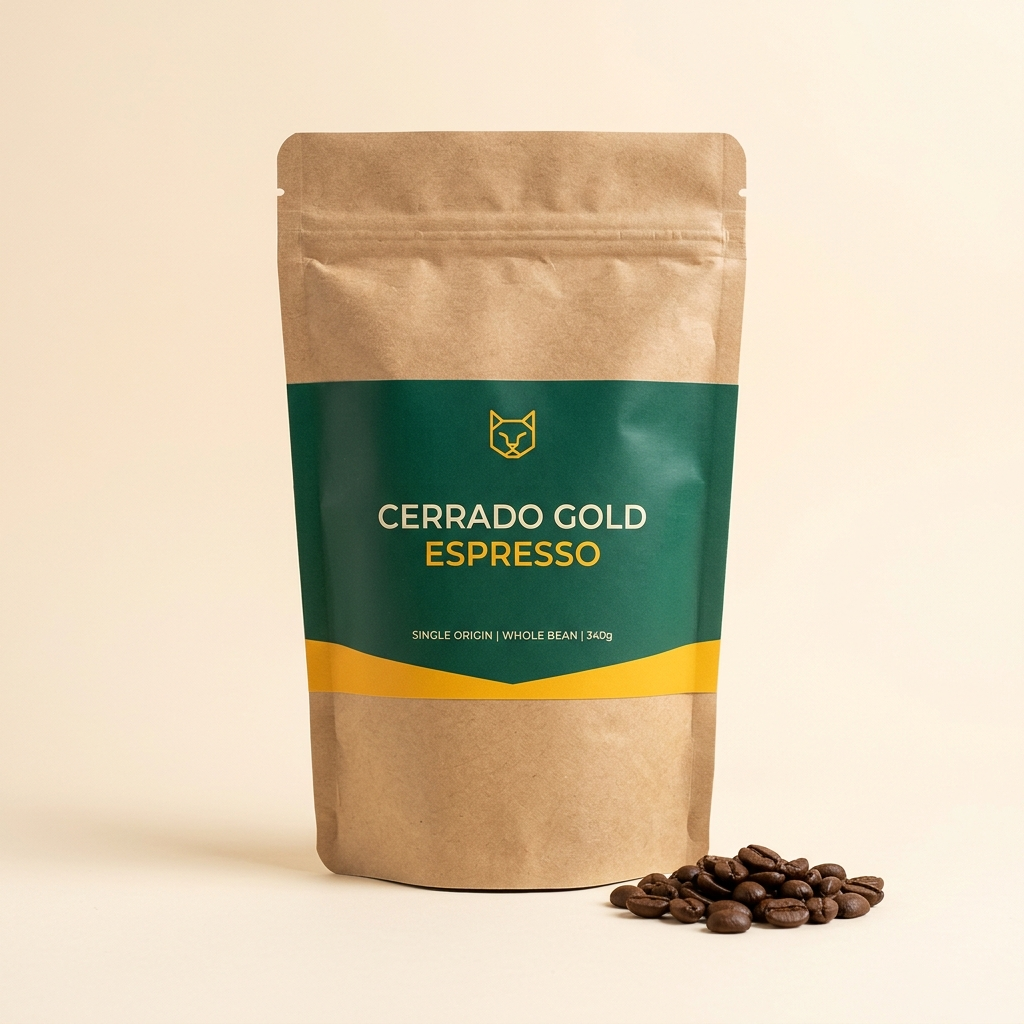
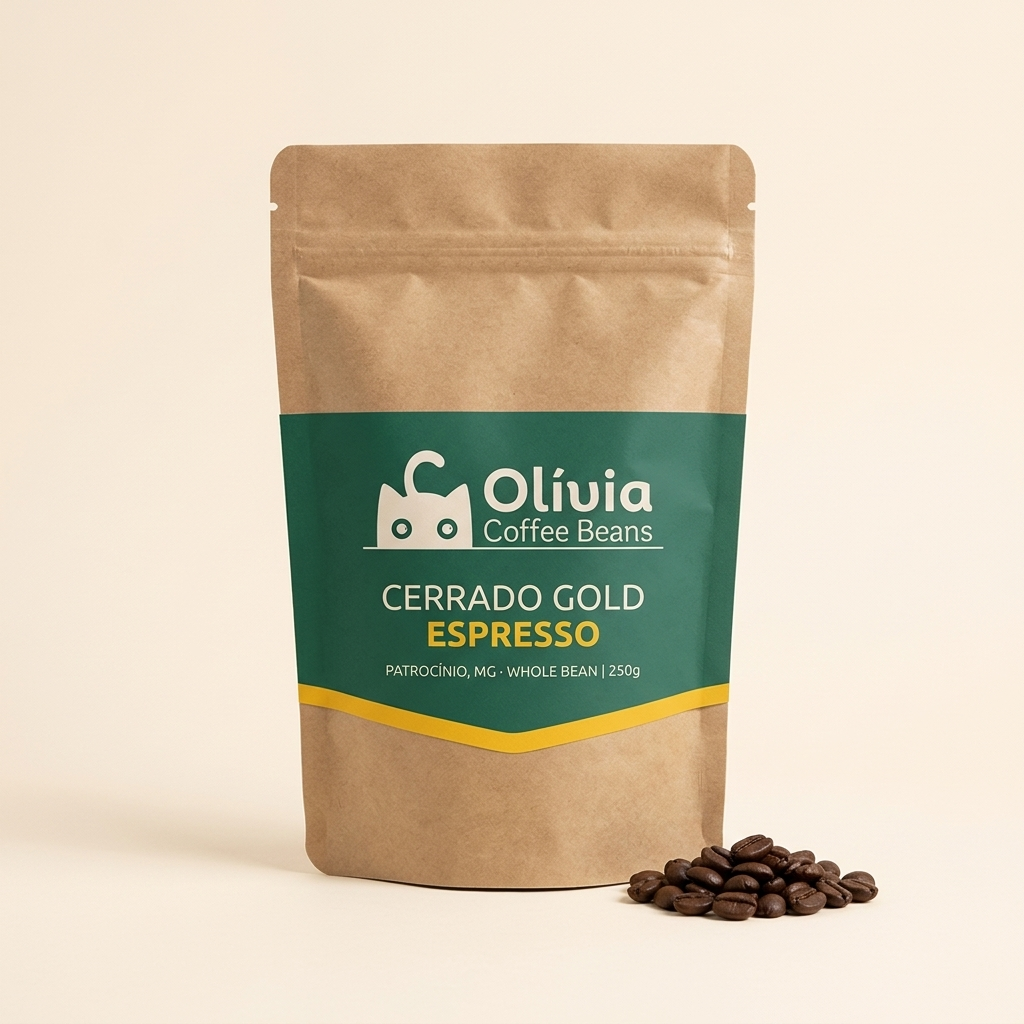
Update branded ziplock pouches, restore original hero, and align LanguageToggle to Figma (485:1473)

Changed region(s): [[0.2188, 0.125, 0.875, 0.9375], [0.375, 0.1875, 0.4062, 0.2188]]

diff --git a/m2-features.js b/m2-features.js
@@ -892,7 +892,7 @@
             '</div>' +
           '</div>' +
           '<div class="cs-specimen-card">' +
-            '<span class="cs-specimen-title">' + escapeHtml(isPt ? 'Switch (116:64), Checkbox (117:514) & Star (117:260)' : 'Switch (116:64), Checkbox (117:514) & Star (117:260)') + '</span>' +
+            '<span class="cs-specimen-title">' + escapeHtml(isPt ? 'Switch (116:64), Checkbox (117:514), Star (117:260) & LanguageToggle (485:1473)' : 'Switch (116:64), Checkbox (117:514), Star (117:260) & LanguageToggle (485:1473)') + '</span>' +
             '<div class="cs-specimen-row">' +
               '<button type="button" class="ocb-switch' + (switchOn ? ' is-on' : '') + '" data-cs-switch role="switch" aria-checked="' + String(switchOn) + '" aria-label="' + escapeHtml(isPt ? 'Alternar assinatura' : 'Toggle subscription') + '">' +
                 '<img class="ocb-switch-img" src="assets/switch-' + (switchOn ? 'on' : 'off') + '.svg" width="36" height="17" alt="">' +
@@ -901,10 +901,16 @@
               buildSpecimenCheckboxHtml('secondary', isPt ? 'Checkbox Secundário' : 'Secondary Checkbox') +
               buildSpecimenCheckboxHtml('accent', isPt ? 'Checkbox Destaque' : 'Accent Checkbox') +
             '</div>' +
-            '<div class="cs-specimen-row" style="margin-top:14px">' +
-              '<img class="ocb-star" src="assets/star-full.svg" width="26" height="23" alt="' + escapeHtml(isPt ? 'Estrela cheia' : 'Full star') + '">' +
-              '<img class="ocb-star" src="assets/star-half.svg" width="26" height="23" alt="' + escapeHtml(isPt ? 'Meia estrela' : 'Half star') + '">' +
-              '<img class="ocb-star" src="assets/star-empty.svg" width="26" height="23" alt="' + escapeHtml(isPt ? 'Estrela vazia' : 'Empty star') + '">' +
+            '<div class="cs-specimen-row" style="margin-top:14px; justify-content:space-between; flex-wrap:wrap; gap:14px">' +
+              '<div class="cs-specimen-row">' +
+                '<img class="ocb-star" src="assets/star-full.svg" width="26" height="23" alt="' + escapeHtml(isPt ? 'Estrela cheia' : 'Full star') + '">' +
+                '<img class="ocb-star" src="assets/star-half.svg" width="26" height="23" alt="' + escapeHtml(isPt ? 'Meia estrela' : 'Half star') + '">' +
+                '<img class="ocb-star" src="assets/star-empty.svg" width="26" height="23" alt="' + escapeHtml(isPt ? 'Estrela vazia' : 'Empty star') + '">' +
+              '</div>' +
+              '<div class="lang-toggle lang-toggle--figma" role="group" aria-label="' + escapeHtml(t('common.languageToggleAria', 'Switch language between English and Brazilian Portuguese')) + '">' +
+                '<button type="button" class="lang-btn' + (!isPt ? ' is-active' : '') + '" data-cs-lang="en" aria-pressed="' + String(!isPt) + '">EN</button>' +
+                '<button type="button" class="lang-btn' + (isPt ? ' is-active' : '') + '" data-cs-lang="pt-BR" aria-pressed="' + String(isPt) + '">PT</button>' +
+              '</div>' +
             '</div>' +
           '</div>' +
           '<div class="cs-specimen-card cs-specimen-card--full">' +
@@ -1006,6 +1012,14 @@
             ? '<img src="assets/checkbox-' + variant + '-on.svg" width="30" height="30" alt="">'
             : '';
         }
+        return;
+      }
+
+      var csLangBtn = e.target.closest('[data-cs-lang]');
+      if (csLangBtn) {
+        var nextLang = csLangBtn.dataset.csLang;
+        var headerLangBtn = nextLang ? document.querySelector('.lang-btn[data-lang="' + nextLang + '"]') : null;
+        if (headerLangBtn) headerLangBtn.click();
         return;
       }
 

diff --git a/styles.css b/styles.css
@@ -169,76 +169,95 @@ body[data-view="cart"] .logo-img--green {
   white-space: nowrap;
 }
 
-/* Segmented Language Toggle */
+/* Figma LanguageToggle (485:1473) */
 .lang-toggle {
-  display: inline-flex;
-  align-items: center;
-  gap: 2px;
+  display: inline-grid;
+  grid-template-columns: 1fr 1fr;
+  align-items: stretch;
+  gap: 3px;
   padding: 3px;
+  min-width: 92px;
+  height: 40px;
   border-radius: var(--ocb-radius-btn);
-  border: 1.5px solid rgba(231, 219, 207, 0.45);
-  background: rgba(30, 53, 38, 0.55);
+  border: 0;
+  background: var(--ocb-secondary-1);
+  box-shadow: 0 2px 4px rgba(0, 0, 0, 0.15);
   flex-shrink: 0;
 }
 
 .lang-btn {
   border: 0;
   background: transparent;
-  color: var(--ocb-secondary-1);
+  color: var(--ocb-primary-1);
   font-family: var(--font-heading);
   font-weight: 700;
-  font-size: 12px;
-  letter-spacing: 0.04em;
+  font-size: 14px;
+  letter-spacing: 0.02em;
   line-height: 1;
-  padding: 6px 10px;
-  border-radius: 7px;
+  text-transform: uppercase;
+  padding: 0 10px;
+  border-radius: 8px;
+  display: inline-flex;
+  align-items: center;
+  justify-content: center;
   cursor: pointer;
   transition: background-color 0.15s ease, color 0.15s ease;
 }
 
 .lang-btn:hover {
-  color: var(--ocb-accent-1);
+  color: var(--ocb-primary-2);
 }
 
 .lang-btn.is-active {
-  background: var(--ocb-accent-1);
-  color: var(--ocb-primary-2);
+  background: var(--ocb-primary-1);
+  color: var(--ocb-secondary-1);
 }
 
 body[data-view="cart"] .lang-toggle {
-  border-color: rgba(33, 103, 86, 0.4);
-  background: rgba(255, 242, 230, 0.85);
+  border: 1px solid rgba(33, 103, 86, 0.28);
+  background: var(--ocb-secondary-1);
 }
 
 body[data-view="cart"] .lang-btn {
-  color: var(--ocb-primary-2);
+  color: var(--ocb-primary-1);
 }
 
 body[data-view="cart"] .lang-btn:hover {
-  color: var(--ocb-primary-1);
+  color: var(--ocb-primary-2);
 }
 
 body[data-view="cart"] .lang-btn.is-active {
   background: var(--ocb-primary-1);
-  color: var(--ocb-secondary-3);
+  color: var(--ocb-secondary-1);
 }
 
 .lang-toggle--drawer {
-  border-color: rgba(30, 53, 38, 0.45);
-  background: rgba(30, 53, 38, 0.12);
+  min-width: 82px;
+  height: 36px;
 }
 
 .lang-toggle--drawer .lang-btn {
-  color: var(--ocb-primary-2);
-}
-
-.lang-toggle--drawer .lang-btn:hover {
+  font-size: 13px;
   color: var(--ocb-primary-1);
 }
 
+.lang-toggle--drawer .lang-btn:hover {
+  color: var(--ocb-primary-2);
+}
+
 .lang-toggle--drawer .lang-btn.is-active {
-  background: var(--ocb-primary-2);
-  color: var(--ocb-accent-1);
+  background: var(--ocb-primary-1);
+  color: var(--ocb-secondary-1);
+}
+
+.lang-toggle--figma {
+  width: 120px;
+  height: 52px;
+}
+
+.lang-toggle--figma .lang-btn {
+  font-size: 16px;
+  border-radius: 10px;
 }
 
 .mobile-menu-btn {

diff --git a/index.html b/index.html
@@ -634,7 +634,7 @@
       <div class="pm-layout">
         <div class="pm-media">
           <div class="pm-image-frame" id="pm-image-frame">
-            <img class="pm-image" id="pm-image" src="assets/coffee-bag.png" alt="">
+            <img class="pm-image" id="pm-image" src="assets/product-starter-pack.jpg" alt="">
             <img class="pm-kraft-logo" id="pm-kraft-logo" src="assets/logo-green.svg" width="129" height="43" alt="" hidden>
           </div>
           <div class="pm-lot-card" id="pm-lot-card"></div>

diff --git a/data/products.js b/data/products.js
@@ -17,8 +17,8 @@
       featured: true,
       fixedSize: false,
       defaultSize: '250g',
-      image: 'assets/coffee-bag.png',
-      isKraftOverlay: true,
+      image: 'assets/product-starter-pack.jpg',
+      isKraftOverlay: false,
       priceUsd: 24.00,
       priceBrl: 119.00,
       roastType: 'medium-dark',
